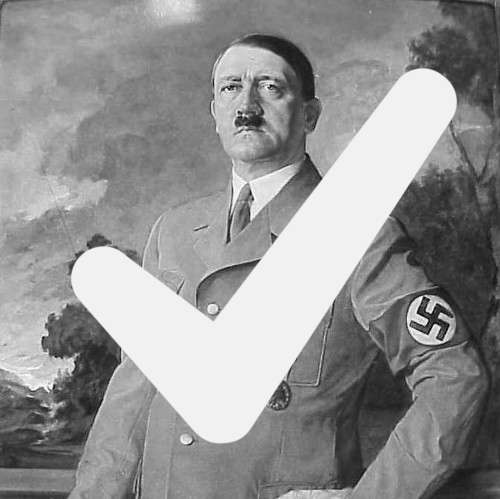
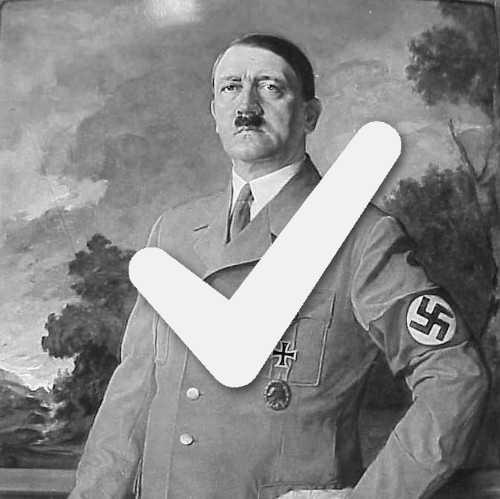
added selected images

Changed region(s): [[0.12, 0.1202, 0.93, 0.9018], [0.51, 0.511, 0.54, 0.5411]]

diff --git a/db/seeds.rb b/db/seeds.rb
@@ -1,9 +1,10 @@
-def character_import(filename, name, title_1, title_2, img)
+def character_import(filename, name, title_1, title_2, img, img_selected)
 	character = Character.create(
 		name: name,
 		title_1: title_1,
 		title_2: title_2,
-		img: img
+		img: img,
+		img_selected: img_selected
 	)
 
 	json = ActiveSupport::JSON.decode(File.read("db/seeds/quotes/#{filename}.json"))
@@ -16,37 +17,37 @@ end
 
 
 # Bill Hicks
-character_import("bill_hicks", "Bill Hicks", "Chain Smoker", "Raging Misanthropist", "bill_hicks.jpg")
+character_import("bill_hicks", "Bill Hicks", "Chain Smoker", "Raging Misanthropist", "bill_hicks.jpg", "bill_hicks_selected.jpg")
 
 # Donald Trump
-character_import("donald_trump", "Donald Trump", "45th U.S. President", "Unrepentant Misogynist", "donald_trump.jpg")
+character_import("donald_trump", "Donald Trump", "45th U.S. President", "Unrepentant Misogynist", "donald_trump.jpg", "donald_trump_selected.jpg")
 
 # Mr. Krabs
-character_import("mr_krabs", "Mr. Krabs", "Owner of the Krusty Krab", "Avid Capitalist", "mr_krabs.jpg")
+character_import("mr_krabs", "Mr. Krabs", "Owner of the Krusty Krab", "Avid Capitalist", "mr_krabs.jpg", "mr_krabs_selected.jpg")
 
 # George W. Bush
-character_import("george_w_bush", "George W. Bush", "43rd U.S. President", "Dodger of Shoes", "george_w_bush.jpg")
+character_import("george_w_bush", "George W. Bush", "43rd U.S. President", "Dodger of Shoes", "george_w_bush.jpg", "george_w_bush_selected.jpg")
 
 # George Carlin
-character_import("george_carlin", "George Carlin", "Stand-up Comedian",  "Renowned Cynic", "george_carlin.jpg")
+character_import("george_carlin", "George Carlin", "Stand-up Comedian",  "Renowned Cynic", "george_carlin.jpg", "george_carlin_selected.jpg")
 
 # God
-character_import("god", "God", "Alpha and Omega",  "Expert Sculptor", "god.jpg")
+character_import("god", "God", "Alpha and Omega",  "Expert Sculptor", "god.jpg", "god_selected.jpg")
 
 # Hitler
-character_import("hitler", "Adolf Hitler", "Leader of the Nazi Party", "Mass-Murderer", "hitler.jpg")
+character_import("hitler", "Adolf Hitler", "Leader of the Nazi Party", "Mass-Murderer", "hitler.jpg", "hitler_selected.jpg")
 
 # King Joffrey
-character_import("mr_burns", "Mr. Burns", "Nuclear Power Plant Owner", "Trap Door Activator", "mr_burns.jpg")
+character_import("mr_burns", "Mr. Burns", "Nuclear Power Plant Owner", "Trap Door Activator", "mr_burns.jpg", "hitler_selected.jpg")
 
 # Mr. Burns
-character_import("king_joffrey", "King Joffrey", " Heir to King Baratheon", "Egomaniacal Snowflake	", "king_joffrey.jpg")
+character_import("king_joffrey", "King Joffrey", " Heir to King Baratheon", "Egomaniacal Snowflake", "king_joffrey.jpg", "king_joffrey_selected.jpg",)
 
 # Skeletor
-character_import("skeletor", "Skeletor", "Muscular Blue Humanoid", "Aspiring Master of the Universe", "skeletor.jpg")
+character_import("skeletor", "Skeletor", "Muscular Blue Humanoid", "Aspiring Master of the Universe", "skeletor.jpg", "skeletor_selected.jpg")
 
 # Stalin
-character_import("joseph_stalin", "Joseph Stalin", "Soviet Leader", "Red Terror Extraordinaire", "stalin.jpg")
+character_import("joseph_stalin", "Joseph Stalin", "Soviet Leader", "Red Terror Extraordinaire", "stalin.jpg", "stalin_selected.jpg")
 
 # Stewie
-character_import("stewie", "Stewie Griffin", "Baby", "Deranged Matricidal Maniac", "stewie.jpg")
+character_import("stewie", "Stewie Griffin", "Baby", "Deranged Matricidal Maniac", "stewie.jpg", "stewie_selected.jpg")

diff --git a/db/schema.rb b/db/schema.rb
@@ -17,6 +17,7 @@ ActiveRecord::Schema.define(version: 20170710182900) do
     t.string "title_1"
     t.string "title_2"
     t.string "img"
+    t.string "img_selected"
     t.datetime "created_at", null: false
     t.datetime "updated_at", null: false
   end

diff --git a/db/migrate/20170626212956_create_characters.rb b/db/migrate/20170626212956_create_characters.rb
@@ -5,6 +5,7 @@ class CreateCharacters < ActiveRecord::Migration[5.1]
       t.string :title_1
       t.string :title_2
       t.string :img
+      t.string :img_selected
 
       t.timestamps
     end
